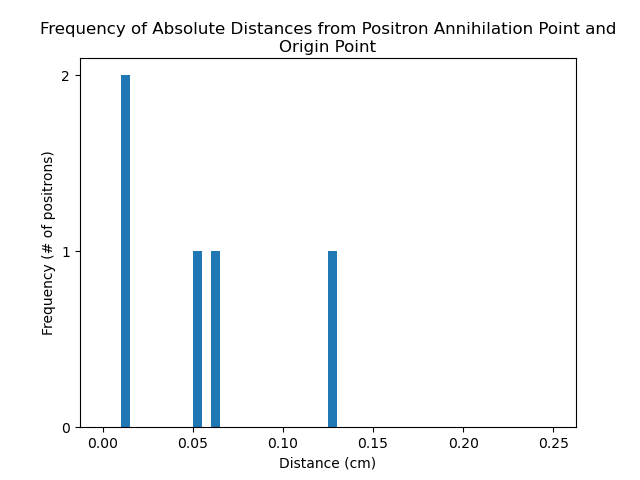
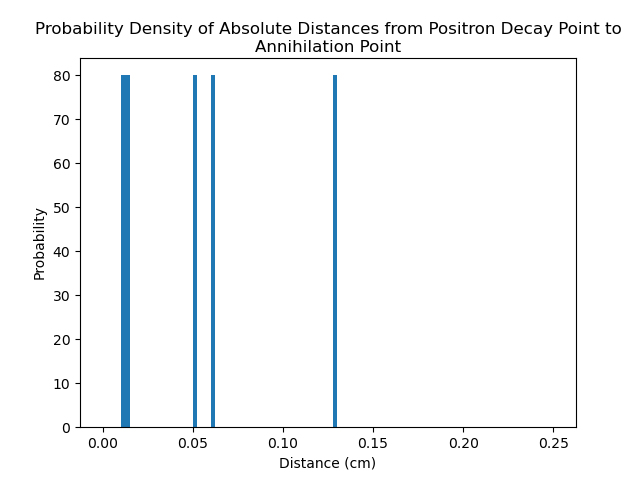
figures

diff --git a/phantoms/xcat_topas_pet_examples/hoffman_brain/annihil_spec.py b/phantoms/xcat_topas_pet_examples/hoffman_brain/annihil_spec.py
@@ -2,6 +2,7 @@
 
 from config.definitions import ROOT_DIR
 import os
+import math
 import pandas as pd
 import numpy as np
 import matplotlib.pyplot as plt
@@ -9,64 +10,131 @@ import matplotlib.pyplot as plt
 tup_file = open(os.path.join(ROOT_DIR, 'TruthTuple.phsp'), 'r')
 tup_lines = tup_file.readlines()
 
-num_positrons = 0
-starting_energy = -1.0
-energy = -1.0
-previous_id = 0
-starting_position = np.empty(3, dtype=float)
-distance = 0.0
-non_zero_diff = 0
-difference = 0.0
-energy_deposited = -1.0
-data = pd.DataFrame(columns=['starte', 'finale', 'diste'])
 
+previous_id = 0
+starting_energy = -1.0
+starting_x_pos = 0.0
+starting_position = np.empty(3, dtype=float)
+
+energy = -1.0
+energy_deposited = -1.0
+difference = 0.0
+
+num_positrons = 0
+non_zero_diff = 0
+
+x_distance = 0.0
+distance = 0.0
+
+data = pd.DataFrame(columns=['starte', 'finale', 'xdist', 'diste', 'linenum'])
+
+
+count = 0
 # iterates through the different event lines
 for line in tup_lines:
+    count += 1
     line_list = line.split()
     # each subsequent step of a history
     id = int(line_list[7])
     if id == -11 and not id == previous_id:
-        data.loc[len(data.index)] = [starting_energy, difference, distance]
+        # adds data line to pandas dataframe
+        data.loc[len(data.index)] = [starting_energy, difference, x_distance, distance, count]
+        
+        # defines history's starting energy for data line
         starting_energy = float(line_list[1])
+        # defines history's starting x value
+        starting_x_pos = float(line_list[3])
+        # defines history's starting position for use in distance calculation
         starting_position = np.array([float(line_list[3]), float(line_list[4]), float(line_list[5])])
+
+        # adds count to tally of positrons with non-zero final energy (difference is the actual final energy)
         if not difference == 0.0:
             non_zero_diff += 1
+        
+        # adds count to tally of number of positron histories looped through 
         num_positrons += 1
+    
     elif id == -11:
+        # calculates the difference between energy at beginning of the step and energy deposited. 
+        # we believe that when step is the very last one of the positron history, the difference is how much energy the positron annihilates with
         energy = float(line_list[1])
         energy_deposited = float(line_list[2])
-        position = np.array([float(line_list[3]), float(line_list[4]), float(line_list[5])])
-        distance = np.linalg.norm(np.subtract(position, starting_position))
         difference = energy - energy_deposited
+        # calculates the distance from origin point in x
+        x_position = float(line_list[3])
+        x_distance = x_position - starting_x_pos
+        # calculates the absolute distance from origin point
+        position = np.array([x_position, float(line_list[4]), float(line_list[5])])
+        distance = np.linalg.norm(np.subtract(position, starting_position))
+        
     previous_id = id
-data.loc[len(data.index)] = [starting_energy, difference, distance]
+
+# adds final history data
+data.loc[len(data.index)] = [starting_energy, difference, x_distance, distance, count]
+# does final history checks/counts
 if not difference == 0.0:
     non_zero_diff += 1
+
+# drops first line of dataframe since it is built on default values
 data = data.drop(0)
 
+plt.figure(1)
+fig1, ax1 = plt.subplots()
+ax1.hist(data['starte'], range=(0.0, 635.0), bins=2540, density=True)
+x = np.linspace(0.25, 635.0, 2539)
+def y(x):
+    return ((-1.54629e-13)*((635.0-x)**2)*(x**2))/(1.0-math.exp(((18.0*math.pi)/137.0)*math.sqrt((2.0*x)/511.0)))
+y2 = np.vectorize(y)
+ax1.plot(x, y2(x), 'r', label='Input function')
+plt.title('Probability Density of Positron Kinetic Energies at Decay')
+plt.legend(loc='upper right')
+plt.xticks()
+plt.ylabel('Probability')
+plt.xlim((0.0, 650.0))
+plt.ylim((0.0, 0.004))
+plt.xlabel('Kinetic Energy (keV)')
+plt.savefig('starte.png')
 
-plt.hist(data["diste"], range=(0.0, 0.25), bins=50)
-plt.title('Frequency of Absolute Distances from Positron Annihilation Point and Origin Point', wrap=True)
+plt.figure(3)
+fig3, ax3 = plt.subplots()
+ax3.hist(data["diste"], range=(0.0, 0.25), bins=100, density=True)
+plt.title('Probability Density of Absolute Distances from Positron Decay Point to Annihilation Point', wrap=True)
 plt.xticks()
 plt.locator_params(axis='y', integer=True)
-plt.ylabel('Frequency (# of positrons)')
+plt.ylabel('Probability')
 plt.xlabel('Distance (cm)')
 plt.savefig('absdist.png')
 
+plt.figure(4)
+fig4, ax4 = plt.subplots()
+ax4.hist(data["xdist"], range=(-0.2, 0.2), bins=80, density=True)
+plt.title('Probability Density of Distances along X-axis from Positron Decay Point to Annihilation Point', wrap=True)
+plt.xticks()
+plt.yticks()
+plt.locator_params(axis='y', integer=True)
+plt.ylabel('Probability')
+plt.xlabel('Distance (cm)')
+plt.savefig('xdist.png')
 
-#hist_starte = data.plot.hist(column=['Starting Energy (keV)'], range=[0.0, 650.0], bins=1300)
-#fig1 = hist_starte.get_figure()
-#fig1.savefig(os.path.join(ROOT_DIR, "fig1.png"))
+plt.figure(2)
+fig2, ax2 = plt.subplots()
+ax2.hist(data.replace(0.0, np.NaN)['finale'], range=(0.0, 560.0), bins=35)
+plt.title('Distribution of Non-zero Kinetic Energies at Annihilation Point')
+plt.xticks()
+plt.locator_params(axis='y', integer=True)
+plt.ylabel('Frequency (# of positrons)')
+plt.xlabel('Kinetic Energy (keV)')
+plt.savefig('finale.png')
 
-#hist_finale = data.plot.hist(column=['Final Energy (keV)'], range = [0.0, 50.0], bins=100)
-#fig2 = hist_finale.get_figure()
-#fig2.savefig(os.path.join(ROOT_DIR, "fig2.png"))
+f = open('README_annihilation_spectrum.txt', 'w')
 
-#hist_distance = data.plot.hist(column=['Distance Travelled (cm)'], title='Frequency of Distances from Positron Origin Point', xlabel='Distance (cm)', ylabel='Frequency (# of positrons)', bins=100, xlim=[0.0, .25])
-#fig3 = hist_distance.get_figure()
-#fig3.savefig(os.path.join(ROOT_DIR, "fig3.png"))
+f.write('Number of positrons: %s\n'%str(num_positrons))
+f.write('Minimum non-zero values of the columns: %s'%str(data.where(data.gt(0)).min(0)))
+f.write('Maximum annihilation energy: %s keV at line %s\n'%(str(data['finale'].max()), str(data.loc[data['finale'].idxmax(), 'linenum'])))
+f.write('Maximum absolute distance : %s\n'%str(data['diste'].max()))
+f.write('Maximum distance in x direction: %s\n'%str(data['xdist'].max()))
+f.write('Minimum distance in x direction: %s\n'%str(data['xdist'].min()))
+f.write('Number of positrons with non-zero difference between final energy and final energy deposited: %s\n'%str(non_zero_diff))
 
-print('Number of positrons found: ' + str(num_positrons))
-print(data)
-print('Number of positrons with non-zero difference between final energy and final energy deposited: ' + str(non_zero_diff))
 tup_file.close()
+f.close()
